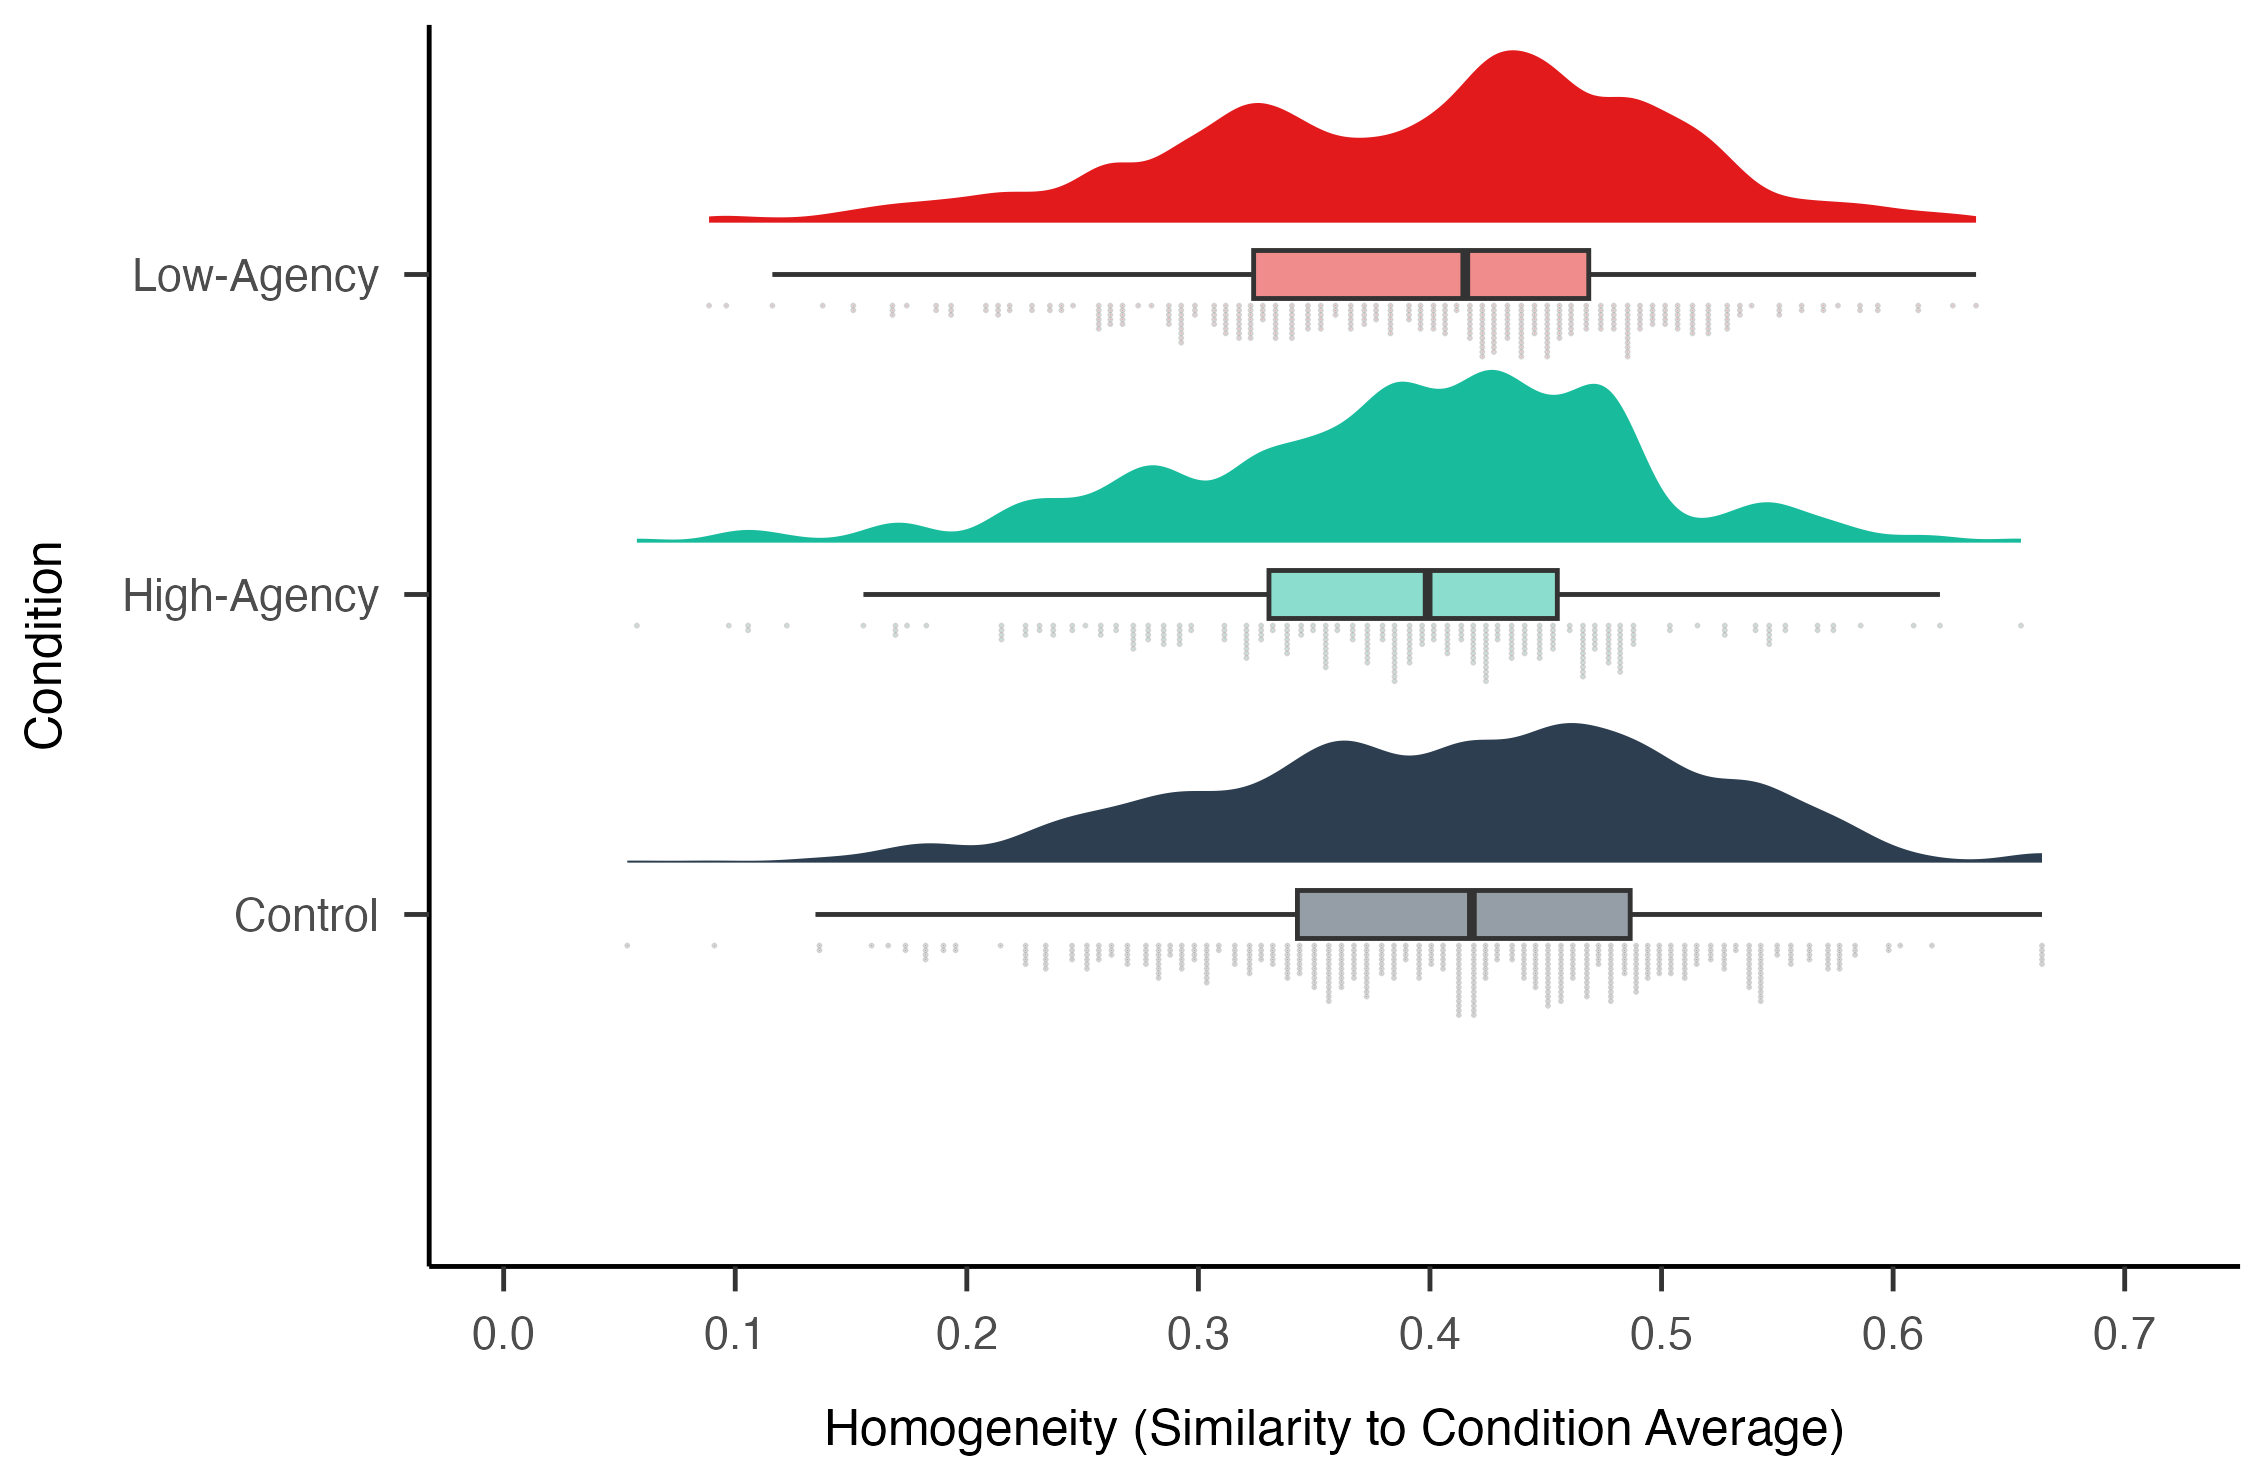
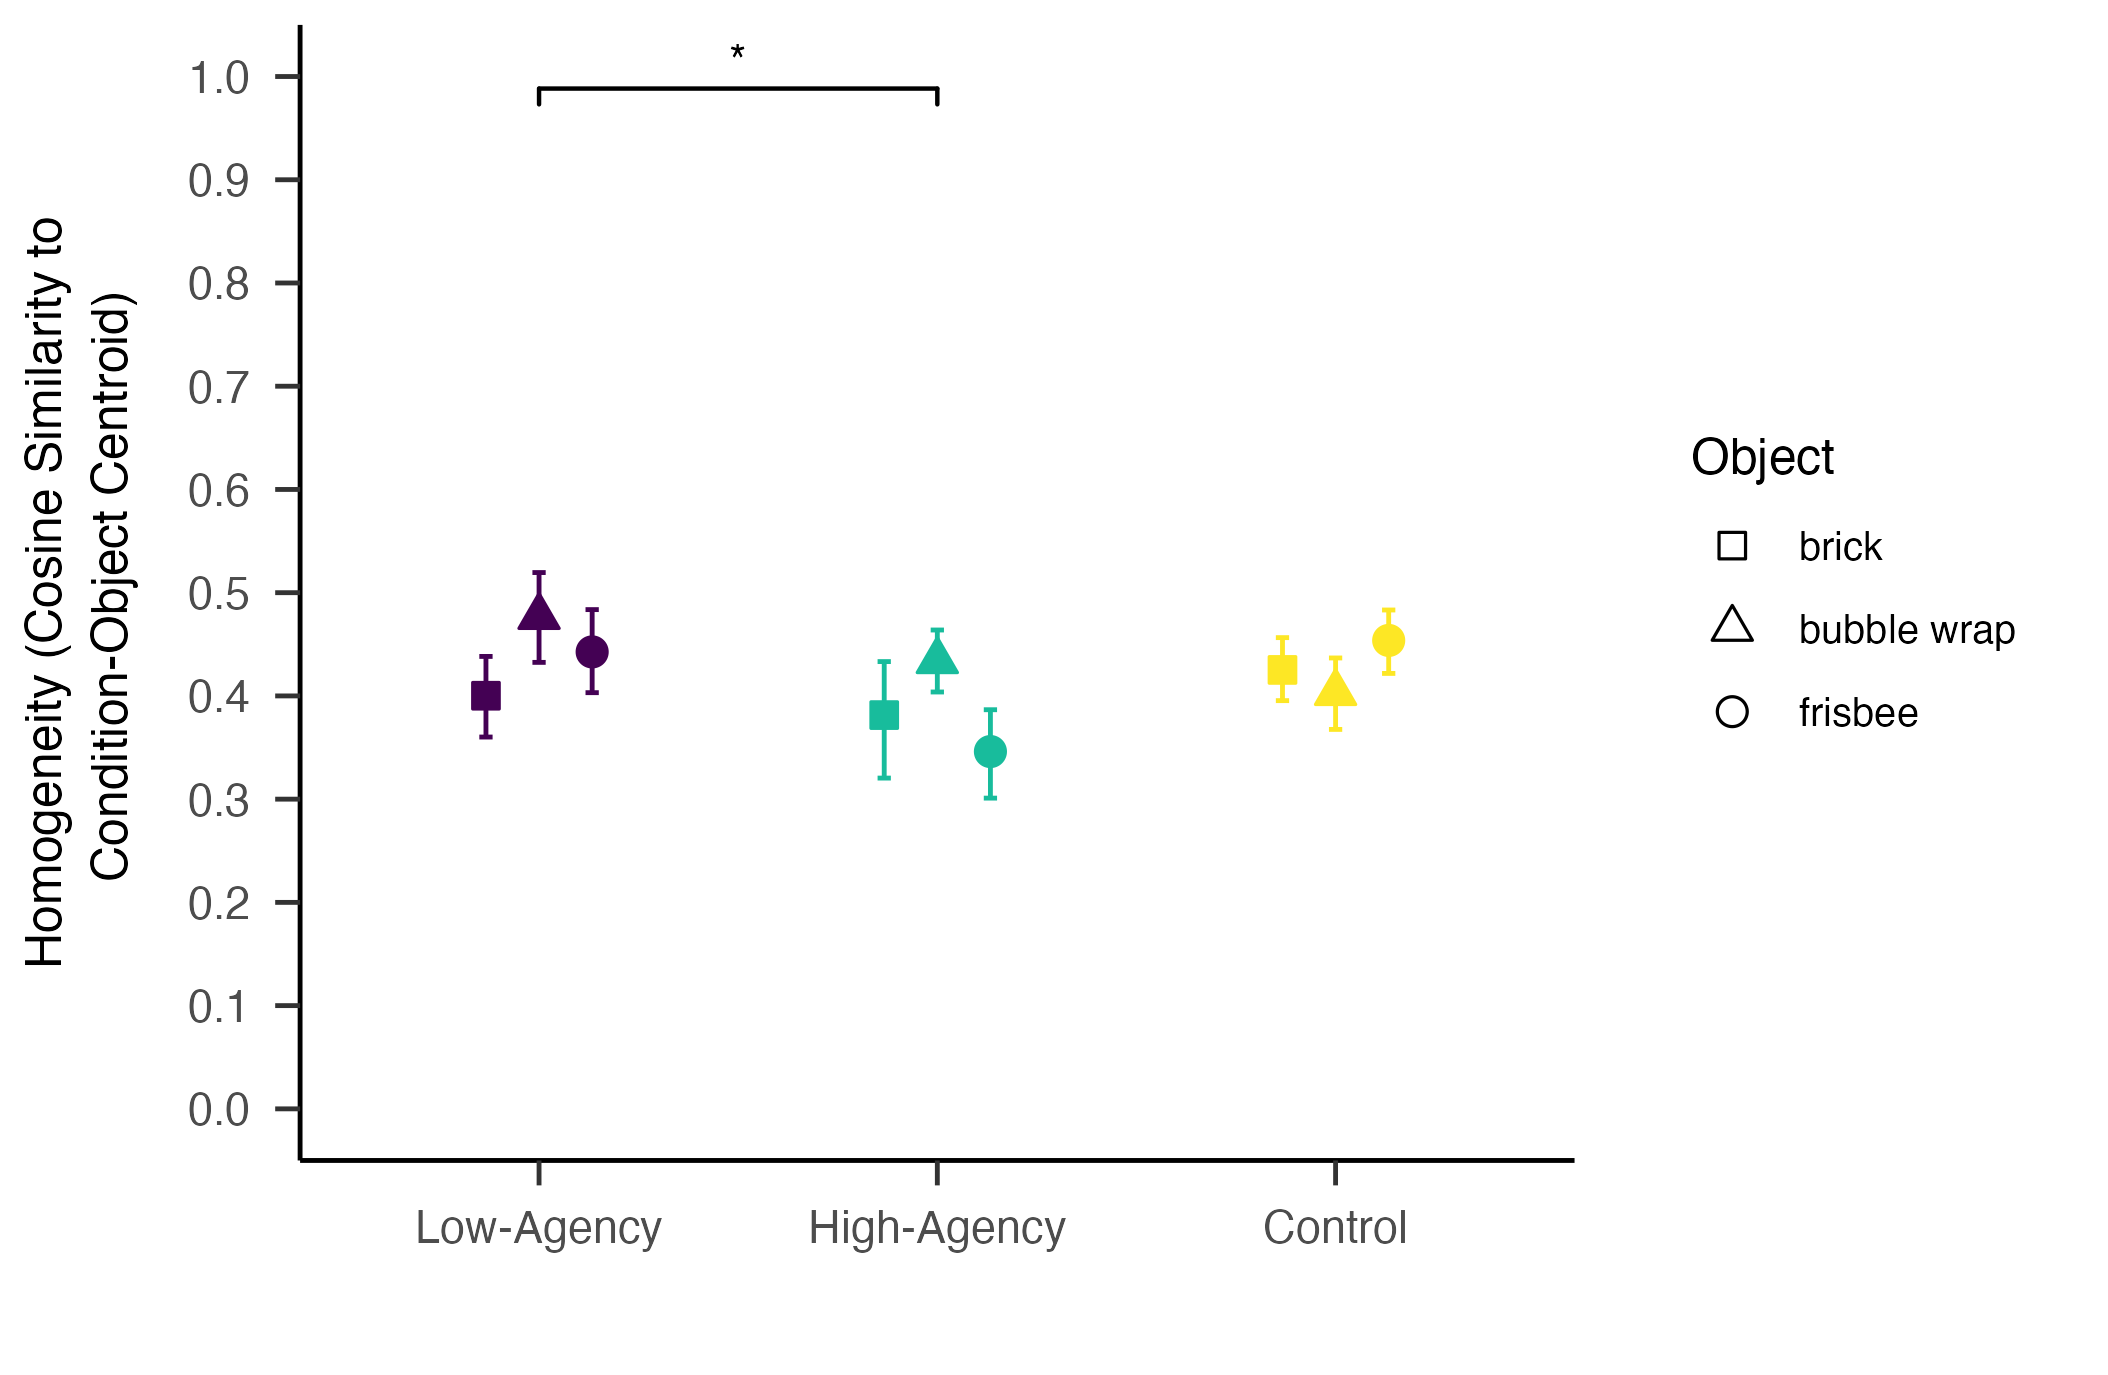
live presentation and figure update

diff --git a/presentation_materials/aut_live_demo.py b/presentation_materials/aut_live_demo.py
@@ -286,7 +286,7 @@ AUDIENCE_HTML = """<!doctype html><meta charset=utf-8>
  #msg{margin-top:14px;font-weight:600;color:#2a7}
 </style>
 <h1>Think of creative uses for <u>__OBJECT__</u></h1>
-<p>List as many <b>unusual</b> uses as you can. Submit one idea at a time; you can send as many as you like.</p>
+<p>For this task, you'll be asked to come up with creative uses for everyday objects. When we say "creative" we mean how original and useful the idea is. Submit your ideas one at a time below. </p>
 <textarea id=t rows=3 maxlength=200 placeholder="e.g. ..." autofocus></textarea>
 <button onclick=send()>Submit idea</button>
 <div id=msg></div>
@@ -307,7 +307,7 @@ PRESENTER_HTML = """<!doctype html><meta charset=utf-8><title>Presenter</title>
 <style>
  body{font-family:system-ui,sans-serif;margin:0;background:#111;color:#eee}
  #top{display:flex;gap:24px;align-items:center;padding:14px 24px;background:#1b1b1b;flex-wrap:wrap}
- #qr{width:150px;height:150px;background:#fff;padding:6px;border-radius:8px}
+ #qr{width:150px;height:150px;background:#fff;padding:6px;border-radius:8px;box-sizing:border-box;display:flex;align-items:center;justify-content:center}
  #url{font-size:1.6rem;font-weight:700;color:#8fd}
  #count{font-size:3rem;font-weight:800}
  button{font-size:1.2rem;padding:12px 22px;border:0;border-radius:10px;margin-right:8px;cursor:pointer}
